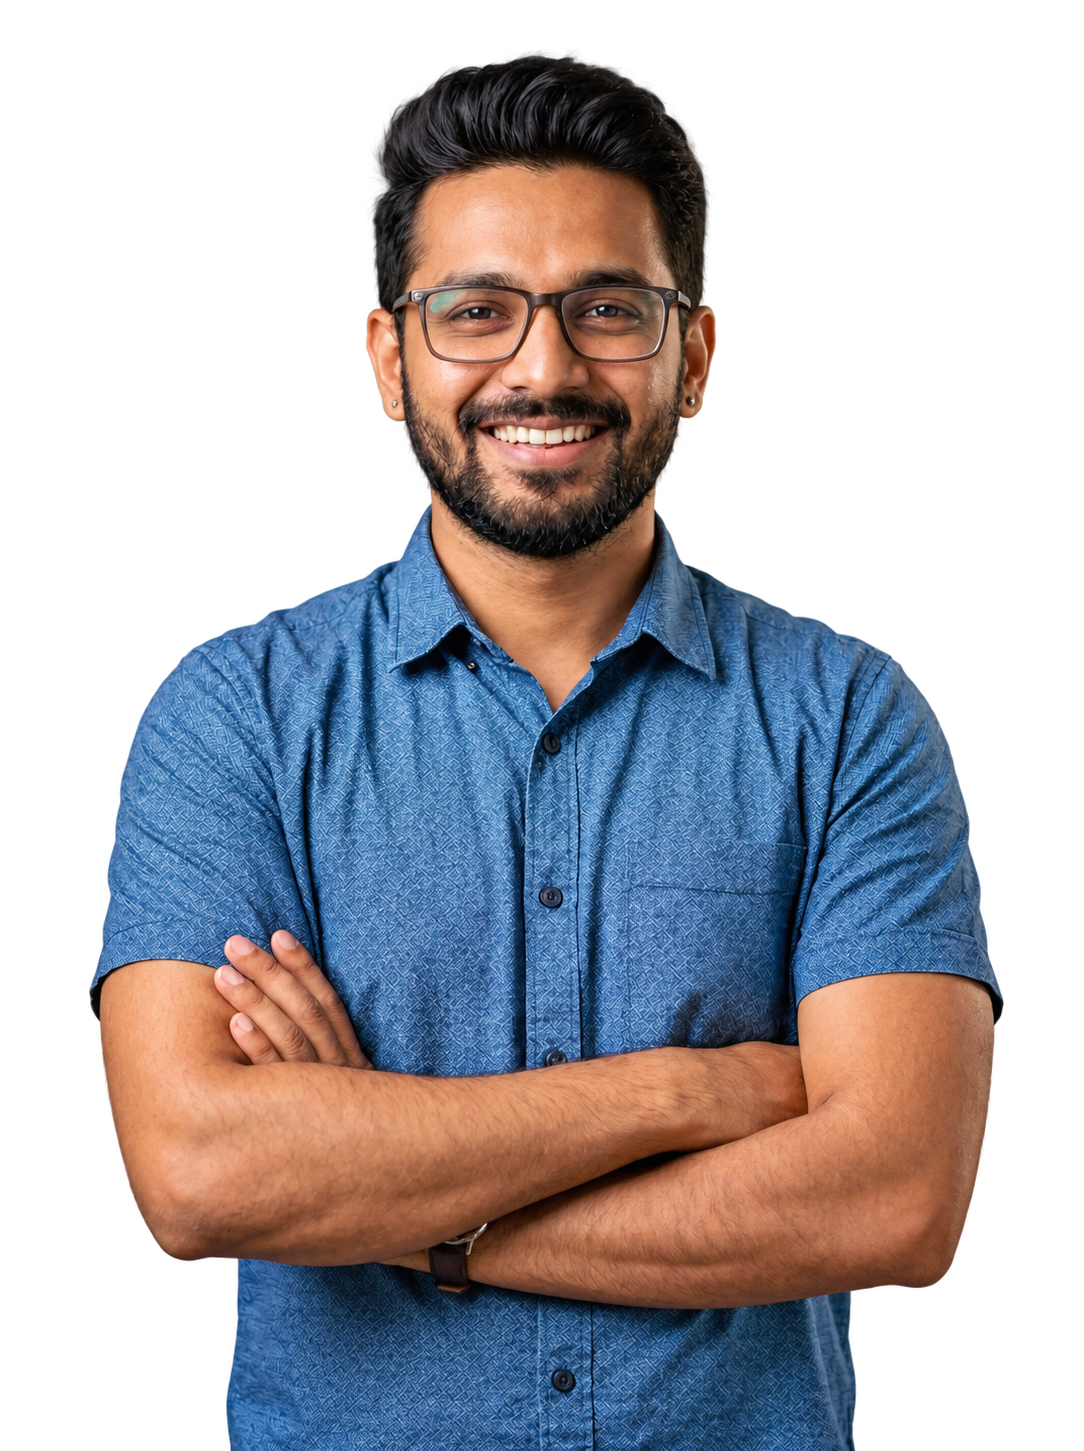
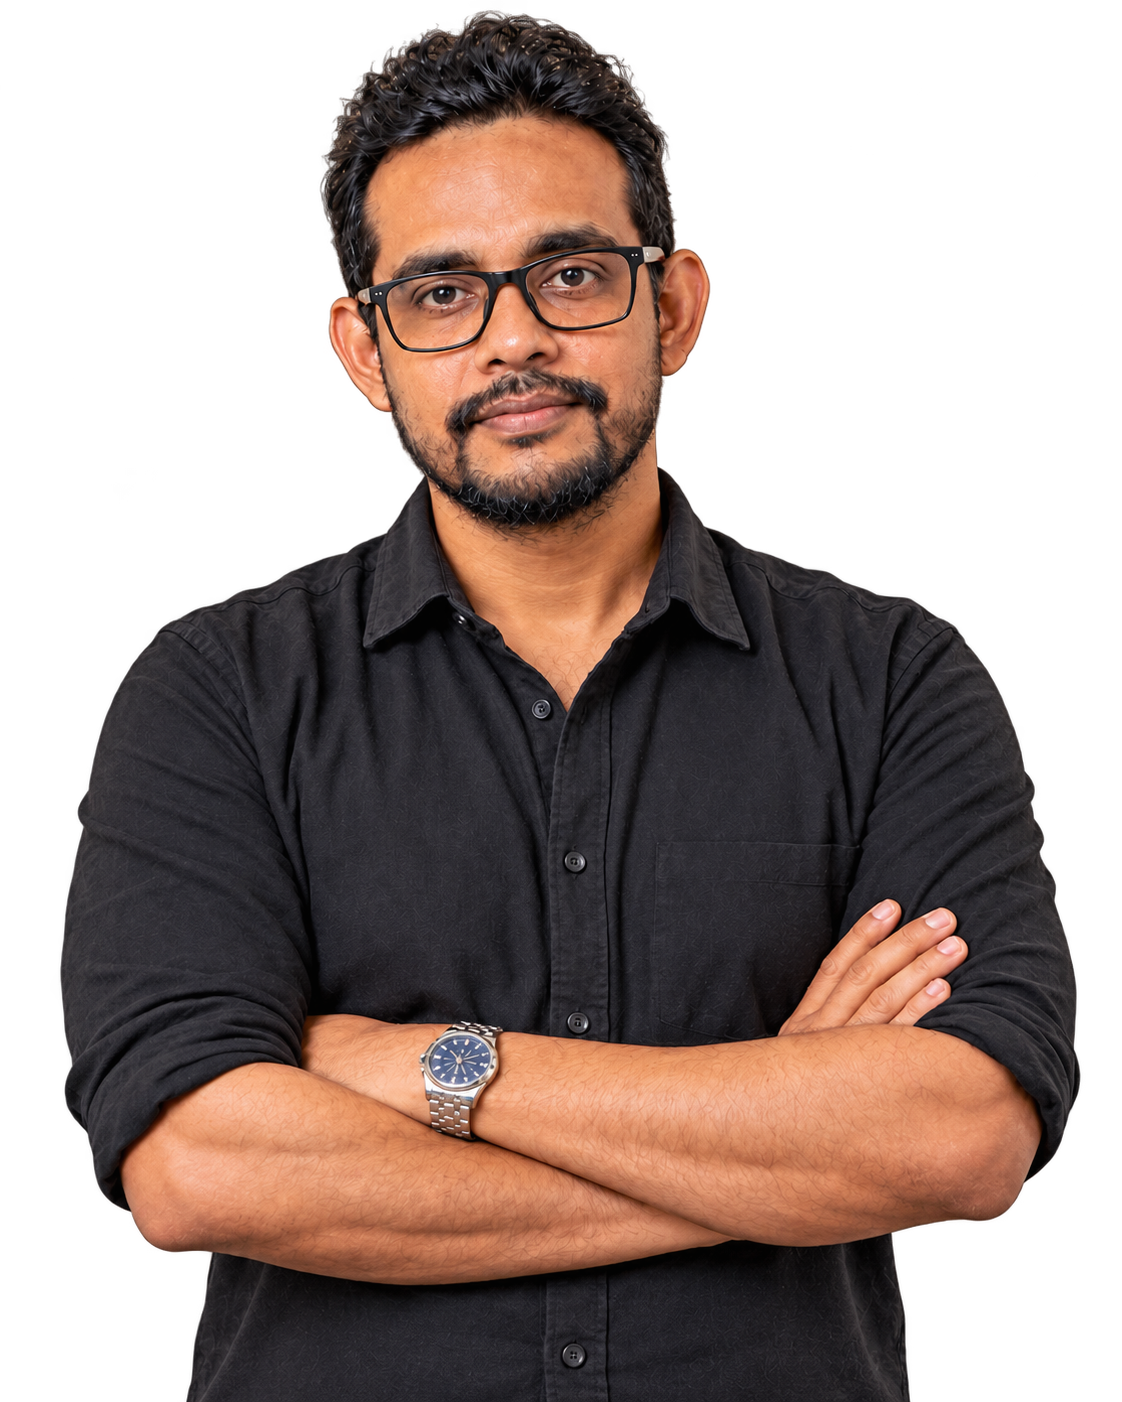
feat: add Hero and JoinModal components for student registration and class exploration

diff --git a/src/components/JoinModal.tsx b/src/components/JoinModal.tsx
@@ -122,9 +122,9 @@ export default function JoinModal({
                     onChange={(e) => setExamYear(e.target.value)}
                     className="w-full pt-3 pb-3 pl-3.5 pr-3.5 rounded-[12px] [border:1.5px_solid_#cbd5e1] text-[length:0.92rem] font-[inherit] text-[#0f172a] bg-[#ffffff] [transition:border-color_0.2s_ease,_box-shadow_0.2s_ease] [outline:none] focus:[border-color:#1d4ed8] focus:[box-shadow:0_0_0_3px_rgba(29,_78,_216,_0.15)] max-sm:text-base"
                   >
-                    <option value="2026">2026 O/L</option>
-                    <option value="2025">2025 O/L Revision</option>
-                    <option value="2027">2027 O/L Beginner</option>
+                    {/* <option value="2026">2026 O/L</option> */}
+                    <option value="2027G10">2027 O/L Grade 10</option>
+                    <option value="2027G11">2027 O/L Grade 11</option>
                   </select>
                 </div>
               </div>
@@ -138,7 +138,7 @@ export default function JoinModal({
                     className="w-full pt-3 pb-3 pl-3.5 pr-3.5 rounded-[12px] [border:1.5px_solid_#cbd5e1] text-[length:0.92rem] font-[inherit] text-[#0f172a] bg-[#ffffff] [transition:border-color_0.2s_ease,_box-shadow_0.2s_ease] [outline:none] focus:[border-color:#1d4ed8] focus:[box-shadow:0_0_0_3px_rgba(29,_78,_216,_0.15)] max-sm:text-base"
                   >
                     <option value="English Medium">English Medium</option>
-                    <option value="Sinhala Medium">Sinhala Medium</option>
+                    {/* <option value="Sinhala Medium">Sinhala Medium</option> */}
                   </select>
                 </div>
 
@@ -157,7 +157,7 @@ export default function JoinModal({
                     <option value="Galle">Galle</option>
                     <option value="Matara">Matara</option>
                     <option value="Kurunegala">Kurunegala</option>
-                    <option value="Other">Other District (Islandwide)</option>
+                    {/* <option value="Other">Other District (Islandwide)</option> */}
                   </select>
                 </div>
               </div>

diff --git a/src/components/StudentLoginModal.tsx b/src/components/StudentLoginModal.tsx
@@ -120,10 +120,11 @@ export default function StudentLoginModal({
                   onChange={(e) => setBatch(e.target.value)}
                   className="w-full pt-3 pb-3 pl-3.5 pr-3.5 rounded-[12px] [border:1.5px_solid_#cbd5e1] text-[length:0.92rem] font-[inherit] text-[#0f172a] bg-[#ffffff] [transition:border-color_0.2s_ease,_box-shadow_0.2s_ease] [outline:none] focus:[border-color:#1d4ed8] focus:[box-shadow:0_0_0_3px_rgba(29,_78,_216,_0.15)] max-sm:text-base"
                 >
-                  <option value="2026">2026 O/L Commerce Theory Batch</option>
-                  <option value="2025">2025 O/L Speed Revision &amp; Paper</option>
-                  <option value="2027">2027 O/L Foundation Batch</option>
-                  <option value="special">Special Accounting Masterclass</option>
+                  {/* <option value="2026">2026 O/L Commerce Theory Batch</option>
+                  <option value="2025">2025 O/L Speed Revision &amp; Paper</option> */}
+                  <option value="2027">2027 O/L Grade 10</option>
+                  <option value="2027">2027 O/L Grade 11</option>
+                  {/* <option value="special">Special Accounting Masterclass</option> */}
                 </select>
               </div>
 

diff --git a/src/components/Hero.tsx b/src/components/Hero.tsx
@@ -2,6 +2,7 @@
 
 import Image from "next/image";
 import { ArrowUpRight, BookOpen, Play, Sparkles } from "lucide-react";
+import educatorCutout from "../../public/images/educator-cutout.png";
 
 interface HeroProps {
   onOpenJoin: () => void;
@@ -88,7 +89,7 @@ export default function Hero({
 
       <div className="pointer-events-none absolute right-0 bottom-0 h-[90%] w-[51%] max-lg:right-[4%] max-lg:h-[530px] max-lg:w-[85%] max-sm:right-[-5%] max-sm:h-[clamp(330px,108vw,440px)] max-sm:w-full">
         <Image
-          src="/images/educator-cutout.png"
+          src={educatorCutout}
           alt="Evon Aravinda, your O/L Commerce educator"
           fill
           priority
